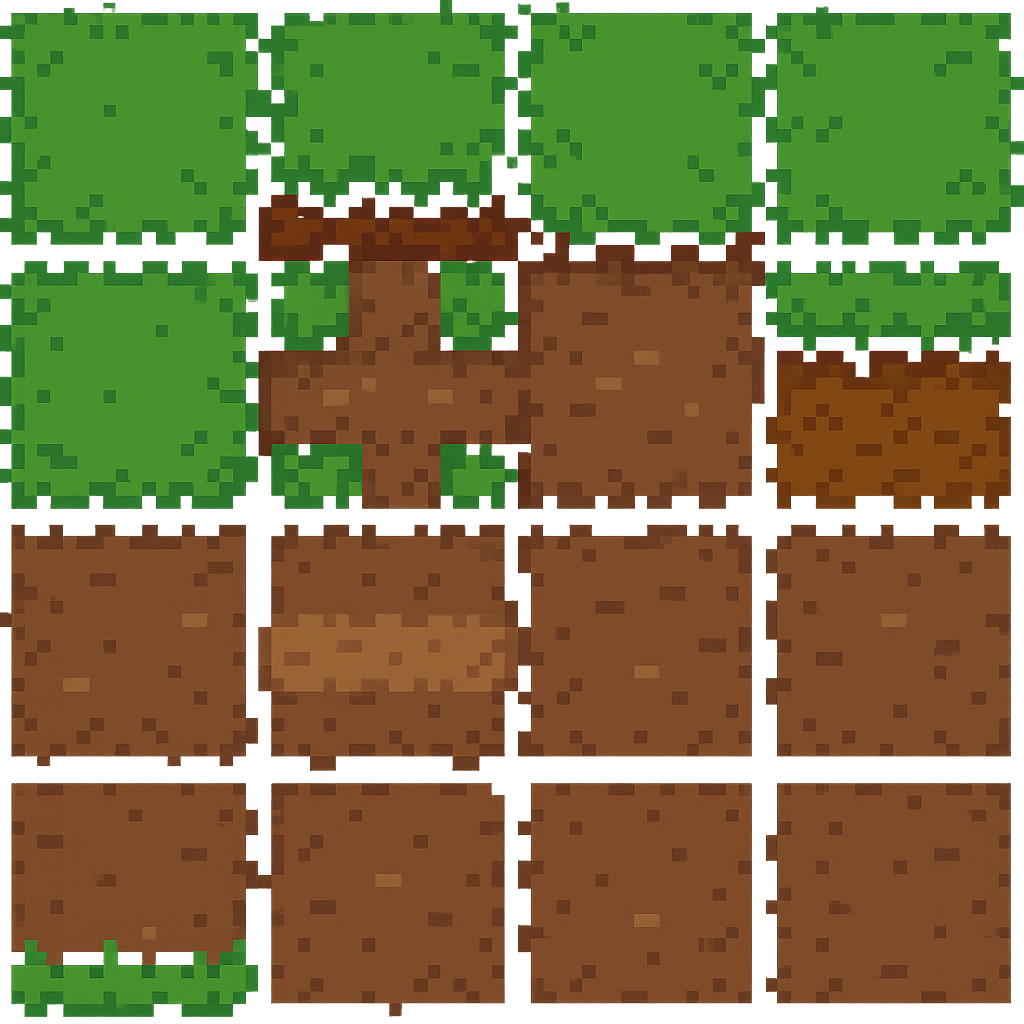
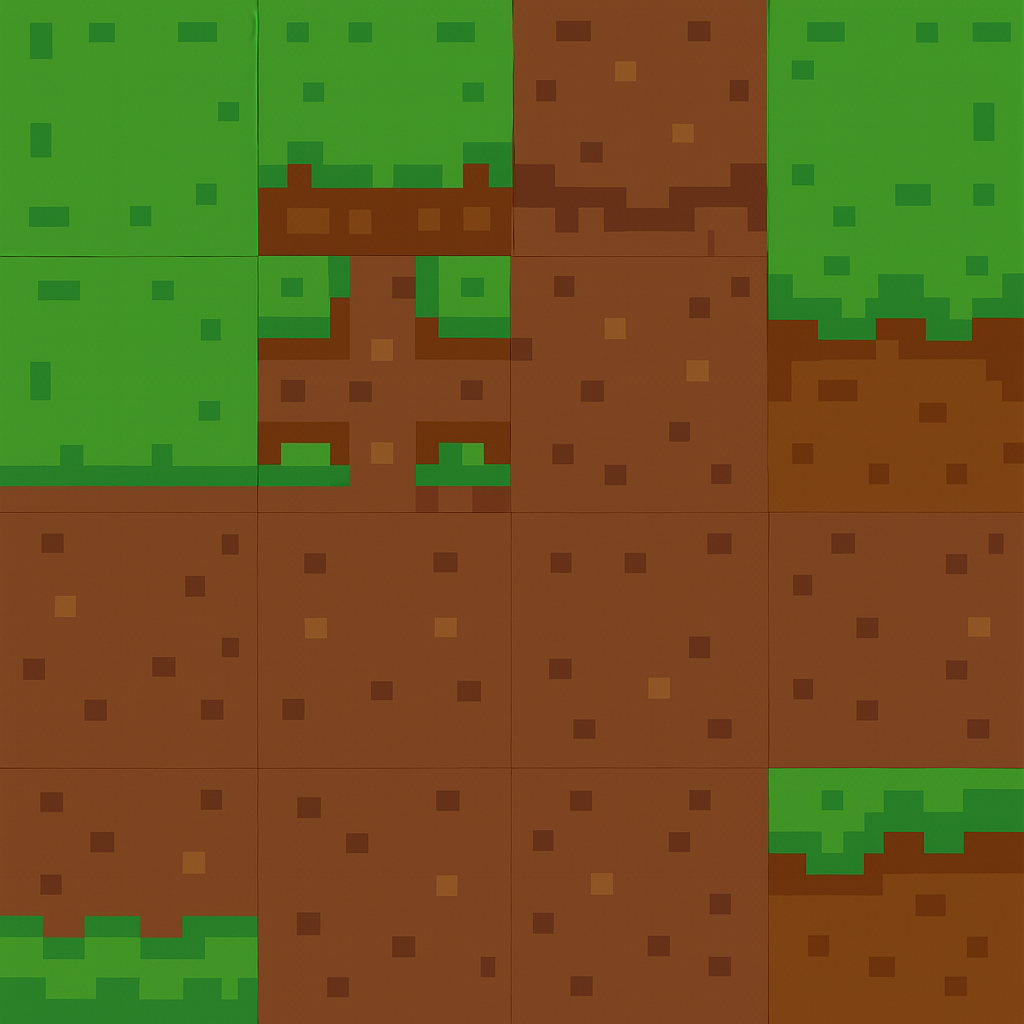
Modified: Tilemap V2

diff --git a/src/Scene/Scene.cpp b/src/Scene/Scene.cpp
@@ -35,10 +35,28 @@ static bool LoadCSV(const std::string& path, int& W, int& H, std::vector<int>& o
     return true;
 }
 
-static Rectangle IndexToSrc(int index, int tileW, int tileH, int cols) {
-    int sx = (index % cols) * tileW;
-    int sy = (index / cols) * tileH;
-    return Rectangle{ (float)sx, (float)sy, (float)tileW, (float)tileH };
+static Rectangle IndexToSrc(int idx, int tileW, int tileH, int cols, int spacing = 0, int margin = 0) {
+    int tx = idx % cols;
+    int ty = idx / cols;
+
+    float x = margin + tx * (tileW + spacing);
+    float y = margin + ty * (tileH + spacing);
+
+    const float eps = 0.01f; // pequeño “shrink” para no samplear bordes
+    return { x + eps, y + eps, tileW - 2*eps, tileH - 2*eps };
+}
+
+static Rectangle SrcFromIndex4x4(int idx, const Texture2D& tex) {
+    const int cols = 4, rows = 4;
+    const int tileW = tex.width  / cols;
+    const int tileH = tex.height / rows;
+
+    int tx = idx % cols;   // 0..3
+    int ty = idx / cols;   // 0..3
+
+    float x = (float)(tx * tileW);
+    float y = (float)(ty * tileH);
+    return { x, y, (float)tileW, (float)tileH };
 }
 
 static void system_input(entt::registry& reg, float dt) {
@@ -267,17 +285,6 @@ void Scene::render() {
     // Fondo
     renderTilemap();
 
-    // if (bg.id) {
-    //     const int sw = GetScreenWidth();
-    //     const int sh = GetScreenHeight();
-    //     const Rectangle src = { 0, 0, (float)bg.width, (float)bg.height };
-    //     const Rectangle dst = { 0, 0, (float)sw, (float)sh };
-    //     DrawTexturePro(bg, src, dst, {0,0}, 0.0f, WHITE);
-    // } else {
-    //     DrawRectangle(0, 0, GetScreenWidth(), GetScreenHeight(), DARKGREEN);
-    //     DrawText("No se cargo el fondo", 20, 20, 20, RED);
-    // }
-
     // Sprite animado
     if (hero.id) {
         Rectangle src{
@@ -376,21 +383,19 @@ void Scene::renderBee(const BeeEnemy& b) {
 }
 
 void Scene::renderTilemap() {
-    const Tilemap &tm = tilemap;   
+    const Tilemap& tm = tilemap;
     if (!tm.loaded || tm.tileset.id == 0) return;
 
-    const int W = tm.width;
-    const int H = tm.height;
-
-    for (int y = 0; y < H; ++y) {
-        for (int x = 0; x < W; ++x) {
-            const int idx = tm.tiles[y * W + x];
+    for (int y = 0; y < tm.height; ++y) {
+        for (int x = 0; x < tm.width; ++x) {
+            int raw = tm.tiles[y * tm.width + x];
+            int idx = (raw <= 0) ? -1 : (raw - 1); // si vienes de Tiled (1..16) -> 0..15
             if (idx < 0) continue;
 
-            Rectangle src = IndexToSrc(idx, tm.tileW, tm.tileH, tm.tilesetCols);
+            Rectangle src = SrcFromIndex4x4(idx, tm.tileset);
             Rectangle dst = { (float)(x * tm.tileW), (float)(y * tm.tileH),
                               (float)tm.tileW, (float)tm.tileH };
-            DrawTexturePro(tm.tileset, src, dst, {0,0}, 0.0f, WHITE);
+            DrawTexturePro(tm.tileset, src, dst, {0,0}, 0, WHITE);
         }
     }
 }
